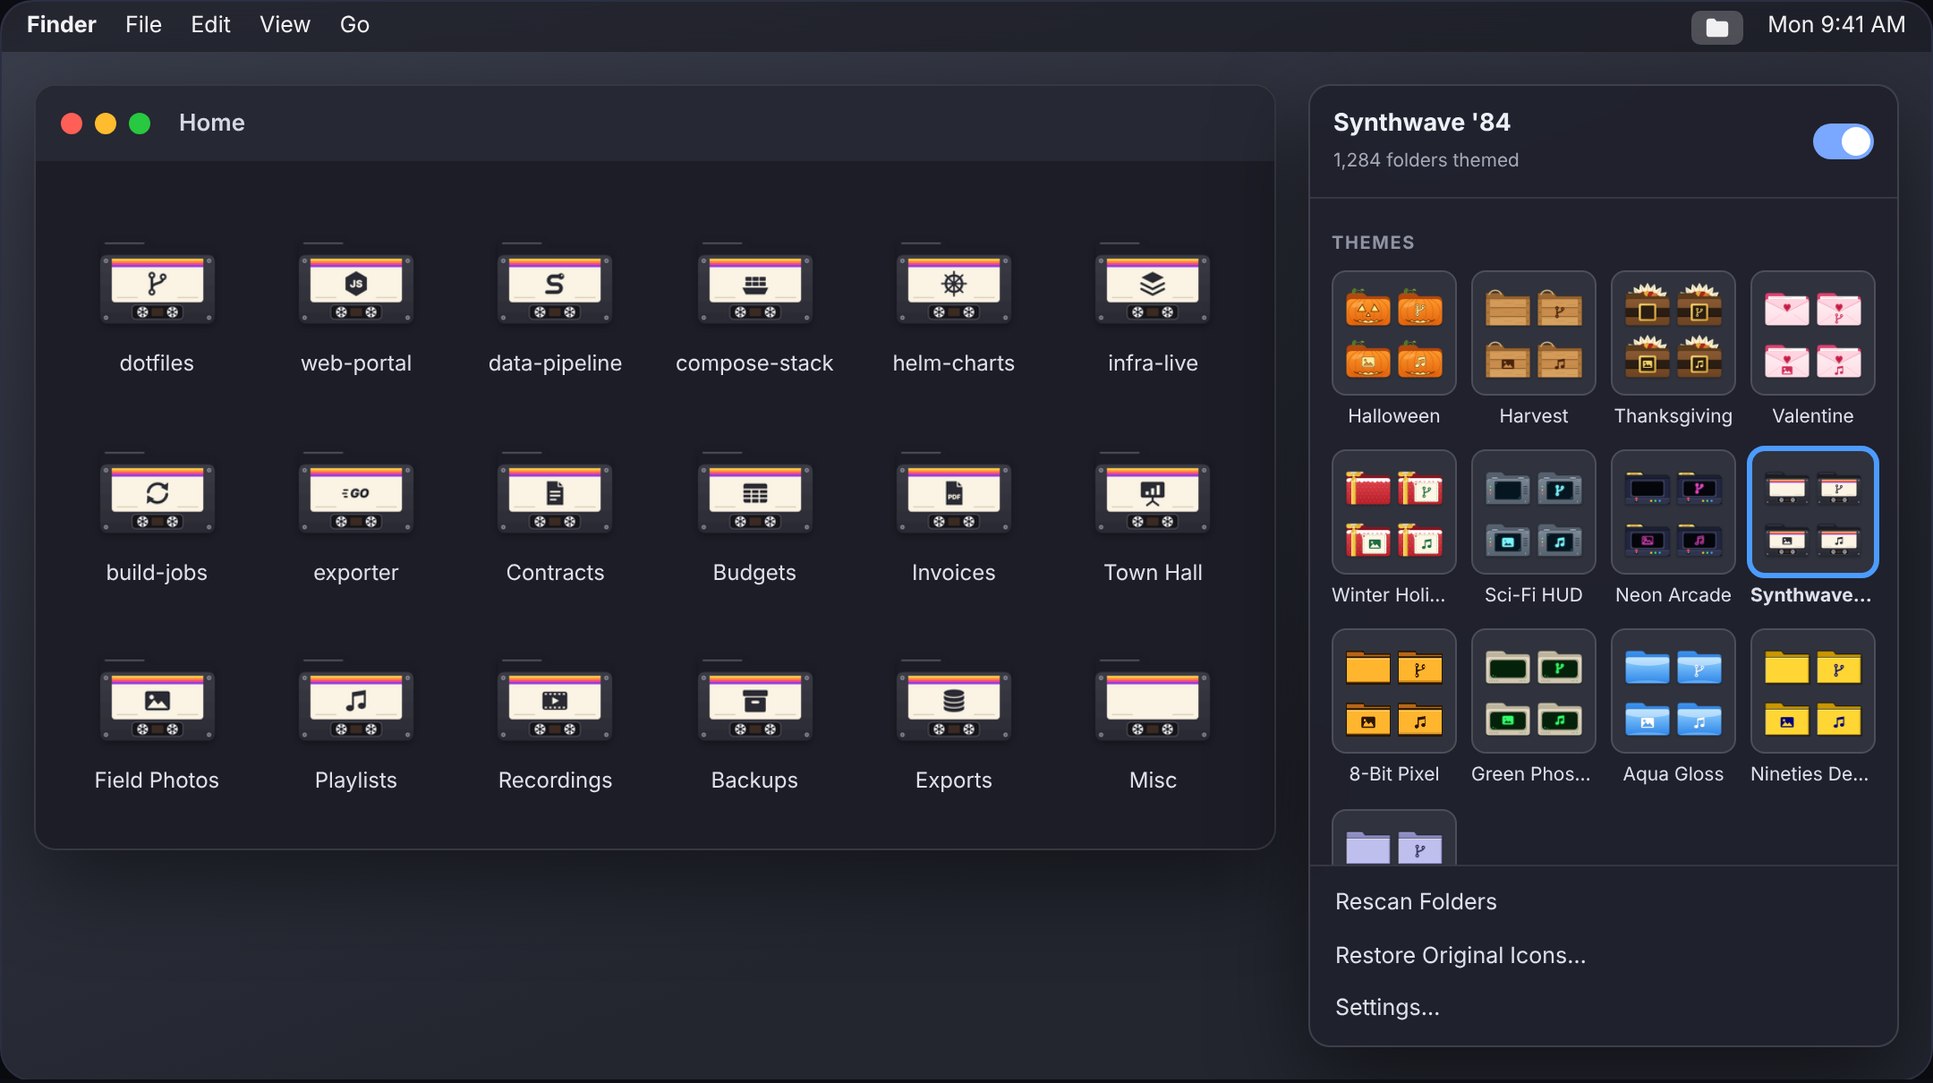
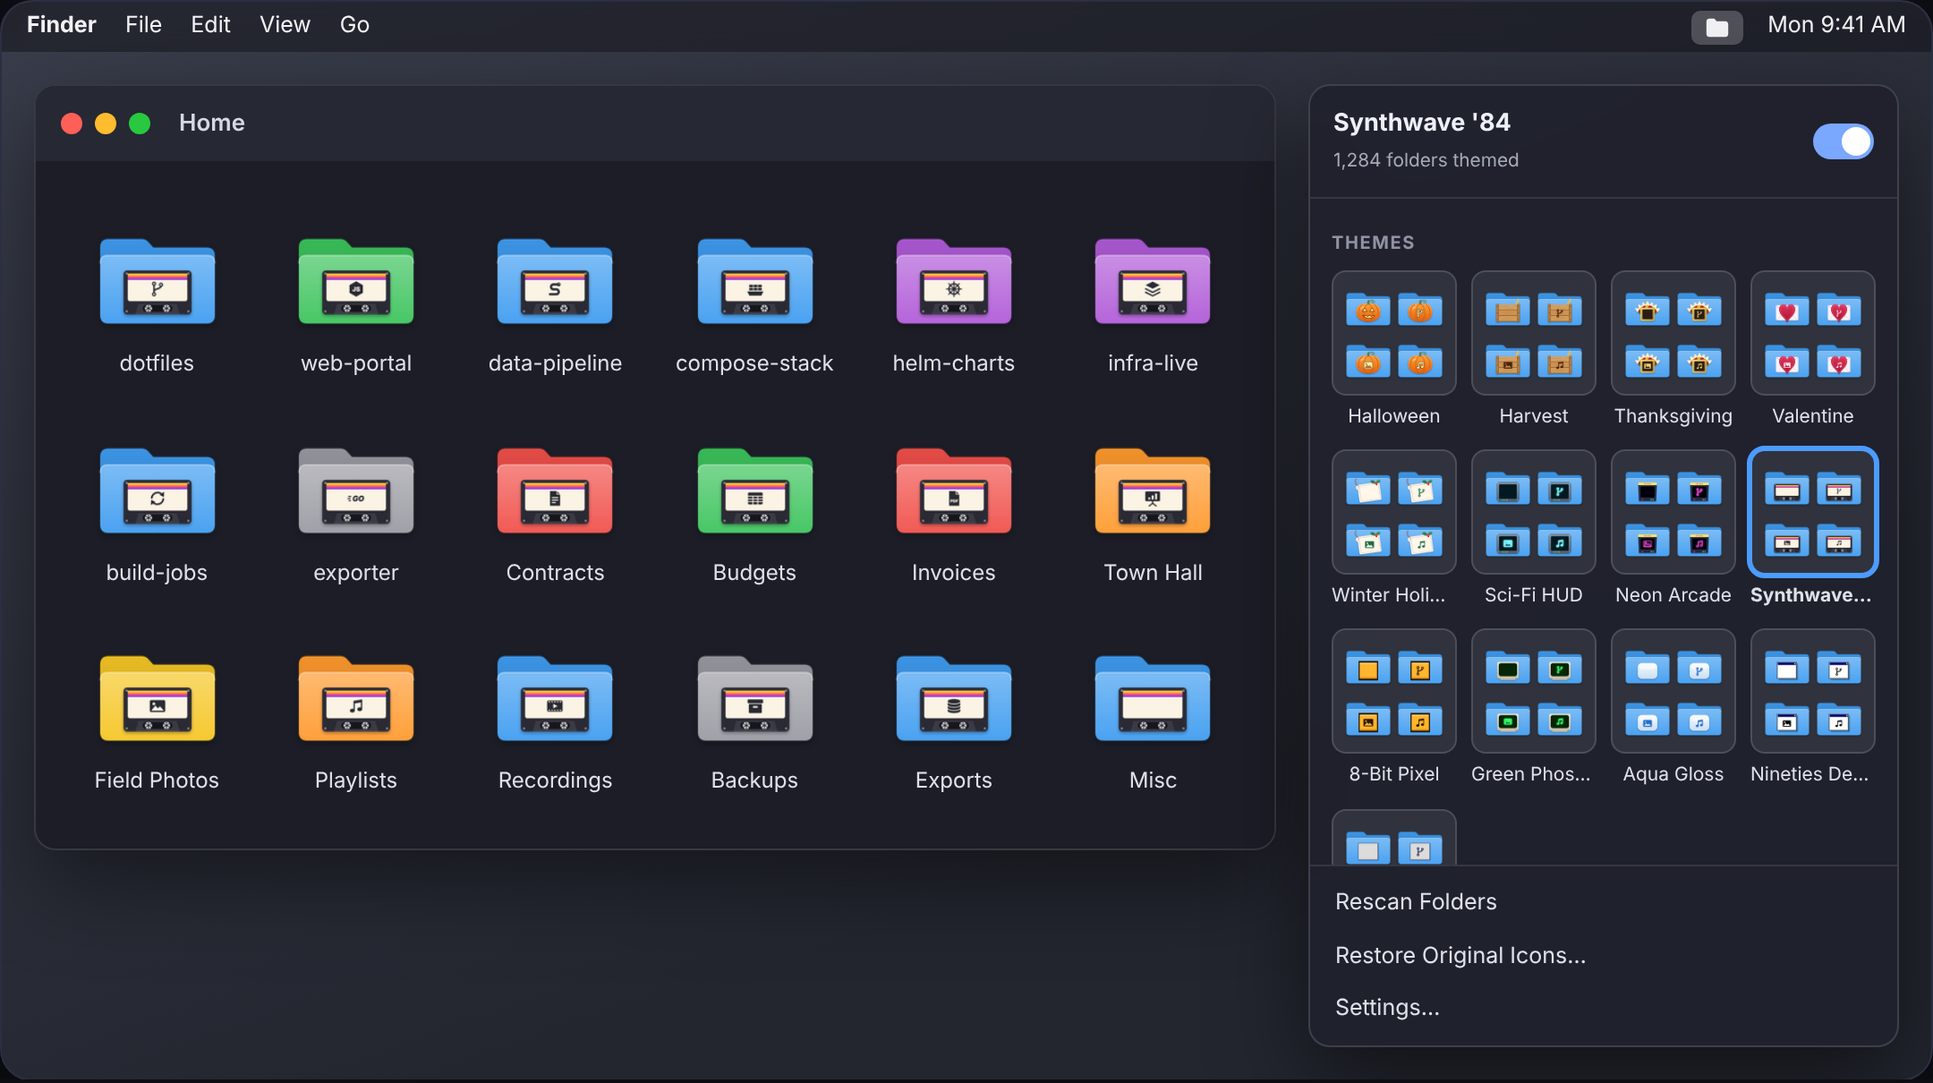
Update website, README and theme guide for tag-coloured folders
Claude-Session: https://claude.ai/code/session_01Div2iNcZwcp3qEYgfxEDNy

diff --git a/site/index.html b/site/index.html
@@ -67,9 +67,8 @@ header.hero p.lead { max-width: 660px; margin: 18px auto 26px; font-size: 1.14re
 .files { display: grid; grid-template-columns: repeat(auto-fill, minmax(104px, 1fr)); gap: 6px 4px; padding: 18px 14px 22px; }
 .file { text-align: center; font-size: 12px; color: #dfe1ea; padding: 6px 2px; }
 .file span { display: block; margin-top: 2px; overflow: hidden; text-overflow: ellipsis; white-space: nowrap; }
-.ico { display: block; width: 76px; aspect-ratio: 1; margin: 0 auto; background-image: var(--sprite); background-size: 900% 300%;
-  background-repeat: no-repeat; }
-body.pixel .ico { image-rendering: pixelated; }
+.ico, .card .thumb i, .theme .strip i, .tagdemo i { display: block; aspect-ratio: 1; background-repeat: no-repeat; }
+.ico { width: 76px; margin: 0 auto; }
 .popover { background: rgba(32,33,44,.92); backdrop-filter: blur(18px); border-radius: 12px; border: 1px solid rgba(255,255,255,.14);
   box-shadow: 0 18px 50px rgba(0,0,0,.5); font-size: 12.5px; overflow: hidden; }
 .popover .head { display: flex; align-items: center; padding: 11px 13px; border-bottom: 1px solid rgba(255,255,255,.1); }
@@ -82,13 +81,21 @@ body.pixel .ico { image-rendering: pixelated; }
 .cards { display: grid; grid-template-columns: repeat(4, minmax(0, 1fr)); gap: 10px 8px; }
 .card { all: unset; display: block; min-width: 0; cursor: pointer; text-align: center; font-size: 10.5px; color: #dfe1ea; border-radius: 8px; }
 .card .thumb { background: #30333d; display: grid; grid-template-columns: repeat(2, minmax(0, 1fr)); padding: 5px; border-radius: 8px; border: 1px solid rgba(255,255,255,.14); margin-bottom: 4px; }
-.card .thumb i { display: block; aspect-ratio: 1; background-size: 900% 300%; background-repeat: no-repeat; }
 .card[aria-pressed="true"] .thumb { outline: 3px solid #4c9bff; outline-offset: -1px; }
 .card[aria-pressed="true"] { font-weight: 650; }
 .card:focus-visible .thumb { outline: 3px solid #fff; }
 .card span { display: block; white-space: nowrap; overflow: hidden; text-overflow: ellipsis; }
 .popover .rows { border-top: 1px solid rgba(255,255,255,.1); padding: 6px; color: #dfe1ea; }
 .popover .rows div { padding: 5px 8px; }
+.colours { display: grid; grid-template-columns: minmax(0, 1fr) minmax(0, 1fr); gap: 32px; align-items: center; margin-top: 10px; }
+.tagdemo { background: var(--panel); border: 1px solid var(--line); border-radius: var(--radius); padding: 28px 20px; text-align: center; }
+.tagdemo i { width: 168px; max-width: 60%; margin: 0 auto 18px; }
+.chips { display: flex; justify-content: center; gap: 12px; flex-wrap: wrap; }
+.chip { all: unset; cursor: pointer; width: 26px; height: 26px; border-radius: 50%; box-shadow: inset 0 0 0 2px rgba(255,255,255,.25); }
+.chip[aria-pressed="true"] { box-shadow: 0 0 0 3px var(--bg), 0 0 0 5px #fff; }
+.chip:focus-visible { box-shadow: 0 0 0 3px var(--bg), 0 0 0 5px var(--accent); }
+.tagdemo p { color: var(--muted); font-size: .88rem; margin-top: 14px; }
+@media (max-width: 760px) { .colours { grid-template-columns: 1fr; } }
 .demo-note { text-align: center; margin-top: 14px; font-size: .88rem; color: var(--muted); }
 @media (max-width: 860px) {
   .desk { grid-template-columns: 1fr; }
@@ -117,7 +124,6 @@ section { padding: 84px 0 0; }
 .theme:hover { transform: translateY(-2px); }
 .theme:focus-visible, .theme[aria-pressed="true"] { border-color: var(--text); }
 .theme .strip { background: #30333d; display: grid; grid-template-columns: repeat(4, 1fr); padding: 16px 14px; }
-.theme .strip i { display: block; aspect-ratio: 1; background-size: 900% 300%; background-repeat: no-repeat; }
 .theme .meta { padding: 12px 16px 16px; }
 .theme .meta small { color: var(--muted); font-weight: 700; letter-spacing: .08em; text-transform: uppercase; font-size: .7rem; }
 .theme .meta p { color: var(--muted); font-size: .9rem; margin-top: 4px; }
@@ -164,7 +170,7 @@ footer .wrap { display: flex; gap: 20px; flex-wrap: wrap; justify-content: space
 
   <header class="hero" id="top">
     <h1>Folders that show<br><span class="accent">what's inside.</span></h1>
-    <p class="lead">HyperIcon is a macOS menu bar utility that looks inside each Finder folder, gives it a matching icon, and lets you restyle every one of them with a single click.</p>
+    <p class="lead">HyperIcon is a macOS menu bar utility that looks inside each Finder folder, gives it a matching icon, and lets you restyle every one of them with a single click. The folder colour stays yours: set it with a Finder tag.</p>
     <div class="cta">
       <a class="btn primary" href="https://github.com/denmanjohn-maker/hypericon/releases/latest/download/HyperIcon.dmg">
         <svg viewBox="0 0 20 20" fill="none" stroke="currentColor" stroke-width="2" stroke-linecap="round" stroke-linejoin="round" aria-hidden="true"><path d="M10 3v10m0 0l-4-4m4 4l4-4M4 16h12"/></svg>
@@ -193,7 +199,7 @@ footer .wrap { display: flex; gap: 20px; flex-wrap: wrap; justify-content: space
         </div>
       </div>
     </div>
-    <p class="demo-note">This preview is live. Pick a theme in the panel and every folder changes, exactly as it does on your Mac.</p>
+    <p class="demo-note">This preview is live. Pick a theme in the panel and every folder changes. Folder colours here come from Finder tags, just as on your Mac.</p>
   </header>
 
   <section id="how">
@@ -208,10 +214,25 @@ footer .wrap { display: flex; gap: 20px; flex-wrap: wrap; justify-content: space
     <div class="rules" id="rules"></div>
   </section>
 
+  <section id="colour">
+    <div class="colours">
+      <div>
+        <p class="kicker">Your colours</p>
+        <h2>Themes bring the artwork. You pick the colour.</h2>
+        <p class="sub">A theme never recolours your folders. HyperIcon draws each one in the colour of its Finder tag, so right-click a folder, choose a tag colour, and its icon follows within seconds. Untagged folders stay the familiar macOS blue.</p>
+      </div>
+      <div class="tagdemo">
+        <i id="tag-icon" role="img" aria-label="A folder icon in the selected tag colour"></i>
+        <div class="chips" id="chips" role="group" aria-label="Finder tag colour"></div>
+        <p>Choose a tag colour to see the folder change.</p>
+      </div>
+    </div>
+  </section>
+
   <section id="themes">
     <p class="kicker">Themes</p>
     <h2>Thirteen themes. One click each.</h2>
-    <p class="sub">Each theme rebuilds the folder itself: a carved pumpkin, a wrapped gift, a cassette tape, an arcade cabinet. The symbol on it still tells you what is inside. Every theme covers all 27 folder types. Select one to try it on this page.</p>
+    <p class="sub">Each theme adds its own artwork to the folder: a carved pumpkin, a gift tag, a cassette tape, an arcade screen. The symbol on it tells you what is inside, and the folder keeps the colour you gave it. Every theme covers all 27 folder types. Select one to try it on this page.</p>
     <div class="gallery" id="gallery"></div>
   </section>
 
@@ -267,6 +288,7 @@ bash restore-icons.sh</pre>
       <details><summary>Will it clutter my Git repositories?</summary><p>No. A repository gets one icon on its top folder and nothing inside it is touched. HyperIcon also adds the hidden icon file to that repository's local <code>.git/info/exclude</code>, so it never appears in <code>git status</code>. That line is removed when you restore.</p></details>
       <details><summary>Does it upload anything?</summary><p>No. HyperIcon only reads file names on your Mac to choose an icon. It makes no network requests at all.</p></details>
       <details><summary>Can I make my own theme?</summary><p>Yes. A theme is a folder of PNG files and a small <code>theme.json</code>. The <a href="https://github.com/denmanjohn-maker/hypericon/blob/main/docs/THEMES.md">theme guide</a> explains the format.</p></details>
+      <details><summary>How do I change a folder's colour?</summary><p>Right-click the folder in Finder and choose a tag colour, or add a tag in Get Info. HyperIcon redraws the icon in that colour. Folders without a coloured tag are blue. The custom colour from macOS 26's Customize Folder is not used, only tag colours.</p></details>
       <details><summary>How do I uninstall it?</summary><p>Choose Restore Original Icons from the menu, quit HyperIcon, and move it to the Trash.</p></details>
     </div>
   </section>
@@ -286,20 +308,38 @@ bash restore-icons.sh</pre>
   }
   function sprite(id) { return 'url("assets/sprites/' + id + '.png")'; }
   function el(tag, cls, text) { var n = document.createElement(tag); if (cls) n.className = cls; if (text) n.textContent = text; return n; }
-  function icon(cat, themeId) {
-    var n = el(themeId ? 'i' : 'span', themeId ? '' : 'ico');
-    n.style.backgroundPosition = pos(cat);
-    if (themeId) { n.style.backgroundImage = sprite(themeId); if (themeId === '8-bit-pixel') n.style.imageRendering = 'pixelated'; }
+  function base(colour) { return 'url("assets/base/' + (colour || 'blue') + '.png")'; }
+  // An icon is two layers, as in the app: the theme artwork over a plain folder in the tag colour.
+  function paint(n, cat, themeId, colour) {
+    n.style.backgroundImage = (themeId ? sprite(themeId) : 'var(--sprite)') + ', ' + base(colour);
+    n.style.backgroundSize = '900% 300%, 100% 100%';
+    n.style.backgroundPosition = pos(cat) + ', 0 0';
     return n;
   }
+  function icon(cat, themeId, colour) { return paint(el(themeId ? 'i' : 'span', themeId ? '' : 'ico'), cat, themeId, colour); }
 
-  var folders = [['git', 'dotfiles'], ['node', 'web-portal'], ['python', 'data-pipeline'], ['docker', 'compose-stack'],
-    ['kubernetes', 'helm-charts'], ['terraform', 'infra-live'], ['ci', 'build-jobs'], ['go', 'exporter'],
-    ['documents', 'Contracts'], ['spreadsheets', 'Budgets'], ['pdf', 'Invoices'], ['presentations', 'Town Hall'],
-    ['images', 'Field Photos'], ['music', 'Playlists'], ['video', 'Recordings'], ['archives', 'Backups'],
+  var folders = [['git', 'dotfiles'], ['node', 'web-portal', 'green'], ['python', 'data-pipeline'], ['docker', 'compose-stack'],
+    ['kubernetes', 'helm-charts', 'purple'], ['terraform', 'infra-live', 'purple'], ['ci', 'build-jobs'], ['go', 'exporter', 'gray'],
+    ['documents', 'Contracts', 'red'], ['spreadsheets', 'Budgets', 'green'], ['pdf', 'Invoices', 'red'], ['presentations', 'Town Hall', 'orange'],
+    ['images', 'Field Photos', 'yellow'], ['music', 'Playlists', 'orange'], ['video', 'Recordings'], ['archives', 'Backups', 'gray'],
     ['data', 'Exports'], ['folder', 'Misc']];
   var files = document.getElementById('files');
-  folders.forEach(function (f) { var d = el('div', 'file'); d.appendChild(icon(f[0])); d.appendChild(el('span', '', f[1])); files.appendChild(d); });
+  folders.forEach(function (f) { var d = el('div', 'file'); d.appendChild(icon(f[0], null, f[2])); d.appendChild(el('span', '', f[1])); files.appendChild(d); });
+
+  var tagColours = [['blue', 'No tag', '#3f9cf0'], ['red', 'Red', '#f0504a'], ['orange', 'Orange', '#ff9a2e'], ['yellow', 'Yellow', '#f5c624'],
+    ['green', 'Green', '#3cc35c'], ['purple', 'Purple', '#b05ad8'], ['gray', 'Gray', '#9a9aa2']];
+  var tagIcon = document.getElementById('tag-icon'), chips = document.getElementById('chips'), tagColour = 'purple', chipButtons = [];
+  function paintTag() {
+    paint(tagIcon, 'git', null, tagColour);
+    chipButtons.forEach(function (b) { b.setAttribute('aria-pressed', b.dataset.colour === tagColour ? 'true' : 'false'); });
+  }
+  tagColours.forEach(function (c) {
+    var b = el('button', 'chip'); b.type = 'button'; b.dataset.colour = c[0]; b.style.background = c[2];
+    b.setAttribute('aria-label', c[1]); b.title = c[1];
+    b.addEventListener('click', function () { tagColour = c[0]; paintTag(); });
+    chips.appendChild(b); chipButtons.push(b);
+  });
+  paintTag();
 
   var ruleList = [['git', '.git', 'Git repository'], ['node', 'package.json', 'Node.js project'], ['python', 'pyproject.toml', 'Python project'],
     ['docker', 'Dockerfile', 'Container project'], ['kubernetes', 'Chart.yaml', 'Helm chart or Kustomize'], ['terraform', '*.tf', 'Terraform'],
@@ -330,7 +370,6 @@ bash restore-icons.sh</pre>
     var t = data.themes.filter(function (x) { return x.id === id; })[0] || data.themes[0];
     var root = document.documentElement.style;
     root.setProperty('--sprite', sprite(t.id));
-    document.body.classList.toggle('pixel', t.id === '8-bit-pixel');
     document.getElementById('active-name').textContent = t.name;
     buttons.forEach(function (b) { b.setAttribute('aria-pressed', b.dataset.id === t.id ? 'true' : 'false'); });
     try { localStorage.setItem('hypericon-theme', t.id); } catch (e) {}

diff --git a/site/assets/themes.js b/site/assets/themes.js
@@ -116,55 +116,55 @@ window.HYPERICON = {
    "id": "halloween",
    "name": "Halloween",
    "group": "Holidays",
-   "description": "Jack-o'-lantern folders with carved, candle-lit symbols."
+   "description": "Jack-o'-lanterns with the symbol carved and candle-lit."
   },
   {
    "id": "harvest",
    "name": "Harvest",
    "group": "Holidays",
-   "description": "Wooden market crates with rope handles and branded symbols."
+   "description": "Wooden crates with branded symbols and a sheaf of wheat."
   },
   {
    "id": "thanksgiving",
    "name": "Thanksgiving",
    "group": "Holidays",
-   "description": "A turkey's feather fan and a pilgrim buckle on every folder."
+   "description": "A turkey's feather fan behind a pilgrim buckle."
   },
   {
    "id": "valentine",
    "name": "Valentine",
    "group": "Holidays",
-   "description": "Love-letter envelopes sealed with a wax heart."
+   "description": "Love letters sealed with a wax heart."
   },
   {
    "id": "winter-holiday",
    "name": "Winter Holiday",
    "group": "Holidays",
-   "description": "Folders wrapped as gifts, with ribbon, a bow and a tag."
+   "description": "A gift tag with holly on every folder."
   },
   {
    "id": "scifi-hud",
    "name": "Sci-Fi HUD",
    "group": "Sci-Fi",
-   "description": "Riveted console panels with holographic displays."
+   "description": "Riveted console screens with holographic symbols."
   },
   {
    "id": "neon-arcade",
    "name": "Neon Arcade",
    "group": "80s",
-   "description": "Arcade cabinets with a joystick, buttons and a neon screen."
+   "description": "Arcade cabinets with neon symbols on the screen."
   },
   {
    "id": "synthwave-84",
    "name": "Synthwave '84",
    "group": "80s",
-   "description": "Cassette tapes with striped labels and spinning reels."
+   "description": "Cassette tapes with striped labels."
   },
   {
    "id": "8-bit-pixel",
    "name": "8-Bit Pixel",
    "group": "Computer Retro",
-   "description": "Chunky low-resolution pixel art."
+   "description": "Chunky low-resolution pixel badges."
   },
   {
    "id": "green-phosphor",
@@ -176,19 +176,19 @@ window.HYPERICON = {
    "id": "aqua-gloss",
    "name": "Aqua Gloss",
    "group": "OS Classics",
-   "description": "Glossy pinstriped folders from the early 2000s."
+   "description": "Glossy pinstriped gel badges from the early 2000s."
   },
   {
    "id": "nineties-desktop",
    "name": "Nineties Desktop",
    "group": "OS Classics",
-   "description": "Manila folders with black outlines and hard shadows."
+   "description": "Little windows with title bars and hard shadows."
   },
   {
    "id": "platinum-classic",
    "name": "Platinum Classic",
    "group": "OS Classics",
-   "description": "Bevelled folders in the style of late-90s desktops."
+   "description": "Bevelled grey plates in the style of late-90s desktops."
   }
  ]
 };

diff --git a/tools/site/build.py b/tools/site/build.py
@@ -1,5 +1,6 @@
 #!/usr/bin/env python3
-"""Builds the website's theme assets from Themes/: one sprite sheet per theme and themes.js."""
+"""Builds the website's theme assets from Themes/: one artwork sprite sheet per theme, the plain
+folders in each tag colour (assets/base/), and themes.js."""
 import json
 import os
 
@@ -11,12 +12,17 @@ ASSETS = os.path.join(ROOT, "site", "assets")
 CELL, COLS = 128, 9
 GROUPS = ["Holidays", "Sci-Fi", "80s", "Computer Retro", "OS Classics"]
 
+os.makedirs(os.path.join(ASSETS, "base"), exist_ok=True)
+for name in sorted(os.listdir(os.path.join(THEMES, "_base"))):
+    Image.open(os.path.join(THEMES, "_base", name)).convert("RGBA").resize((CELL, CELL), Image.LANCZOS).save(
+        os.path.join(ASSETS, "base", name), optimize=True)
+
 categories = json.load(open(os.path.join(THEMES, "categories.json")))
 ids = [c["id"] for c in categories]
 themes = []
 for name in sorted(os.listdir(THEMES)):
     manifest_path = os.path.join(THEMES, name, "theme.json")
-    if not os.path.exists(manifest_path):
+    if name.startswith("_") or not os.path.exists(manifest_path):
         continue
     manifest = json.load(open(manifest_path))
     rows = (len(ids) + COLS - 1) // COLS

diff --git a/README.md b/README.md
@@ -17,7 +17,8 @@ A macOS menu bar utility that gives every folder an icon based on its contents,<
 ## What it does
 
 - **Content-aware icons.** A folder with a `.git` directory gets a Git icon, a Node project gets a Node icon, a folder that is mostly PDFs gets a PDF icon. You never assign icons by hand.
-- **One-click themes.** Thirteen themes ship with the app, each covering all 27 folder types. A theme redraws the folder itself (a carved pumpkin, a wrapped gift, a cassette tape); the symbol on it still shows what is inside.
+- **One-click themes.** Thirteen themes ship with the app, each covering all 27 folder types. A theme adds artwork to the folder (a carved pumpkin, a gift tag, a cassette tape) whose symbol shows what is inside.
+- **Your colours.** Themes never set the folder colour. Each folder is drawn in the colour of its Finder tag, and its icon follows when you change the tag.
 - **Stays current.** HyperIcon watches your home folder and updates an icon within seconds of its contents changing.
 - **Fully reversible.** Every change is journaled before it is made. One click puts every folder back.
 - **Out of the way.** It lives in the menu bar and has no Dock icon.
@@ -26,21 +27,21 @@ Requires macOS 14 or later. Runs on Apple silicon and Intel.
 
 ## Themes
 
-| Theme | The folder becomes | Symbols are |
-| --- | --- | --- |
-| Winter Holiday | A wrapped gift with ribbon and bow | Printed on a gift tag |
-| Halloween | A jack-o'-lantern with stem and vine | Carved and lit from inside |
-| Thanksgiving | A turkey's feather fan with a pilgrim hat band | Set in the buckle |
-| Valentine | A love-letter envelope with a wax heart | Stamped on the paper |
-| Harvest | A wooden crate with a rope handle | Branded into the wood |
-| Sci-Fi HUD | A riveted, hinged console panel | A holographic display |
-| Synthwave '84 | A cassette tape | Printed on the label |
-| Neon Arcade | An arcade cabinet with joystick and buttons | Neon on the screen |
-| Green Phosphor CRT | A beige terminal | Glowing phosphor |
-| 8-Bit Pixel | Chunky pixel art | Pixels |
-| Platinum Classic | A bevelled late-90s folder | Flat ink |
-| Nineties Desktop | A manila folder with hard shadows | Flat ink |
-| Aqua Gloss | A glossy pinstriped folder | Raised gel |
+| Theme | The artwork on each folder |
+| --- | --- |
+| Winter Holiday | A gift tag with a sprig of holly; the symbol is printed on the tag |
+| Halloween | A jack-o'-lantern with the symbol carved and candle-lit |
+| Thanksgiving | A turkey's feather fan behind a pilgrim buckle holding the symbol |
+| Valentine | A love letter sealed with a wax heart; the symbol is pressed into the wax |
+| Harvest | A wooden crate with the symbol branded in, and a sheaf of wheat |
+| Sci-Fi HUD | A riveted console screen with a holographic symbol |
+| Synthwave '84 | A cassette tape with the symbol on its striped label |
+| Neon Arcade | An arcade cabinet with the symbol in neon on the screen |
+| Green Phosphor CRT | A beige terminal with the symbol glowing on a green screen |
+| 8-Bit Pixel | A chunky pixel-art badge |
+| Platinum Classic | A bevelled grey plate in late-90s desktop style |
+| Nineties Desktop | A little window with a title bar and a hard shadow |
+| Aqua Gloss | A glossy pinstriped gel badge |
 
 | | |
 | --- | --- |
@@ -67,6 +68,15 @@ To update, download the latest DMG from [Releases](https://github.com/denmanjohn
 Documents, Pictures, Music and Movies in your home folder always get their matching icon. Turn on **Always use the Git icon for repositories** in Settings if you prefer `.git` to win over language markers.
 
 To change the rules, save a `rules.json` in `~/Library/Application Support/HyperIcon/`. Its format is the `RuleSet` type in [`Rules.swift`](Core/Sources/HyperIconCore/Rules.swift).
+
+### Folder colour
+
+The folder under the artwork is drawn in the colour of the folder's Finder tag. To change it, right-click the folder in Finder and pick a tag colour, or add a tag in **Get Info**. HyperIcon notices within a few seconds and redraws the icon. Folders without a coloured tag are blue.
+
+- If a folder has several coloured tags, Finder decides which colour counts, and HyperIcon uses that one.
+- Turn off **Use each folder's tag colour** in Settings to make every folder blue.
+- The custom colour from macOS 26's **Customize Folder** is not read; only tag colours are. Finder ignores that colour anyway once a folder has a custom icon.
+- Restoring original icons leaves your tags exactly as they are.
 
 ### Which folders are touched
 
